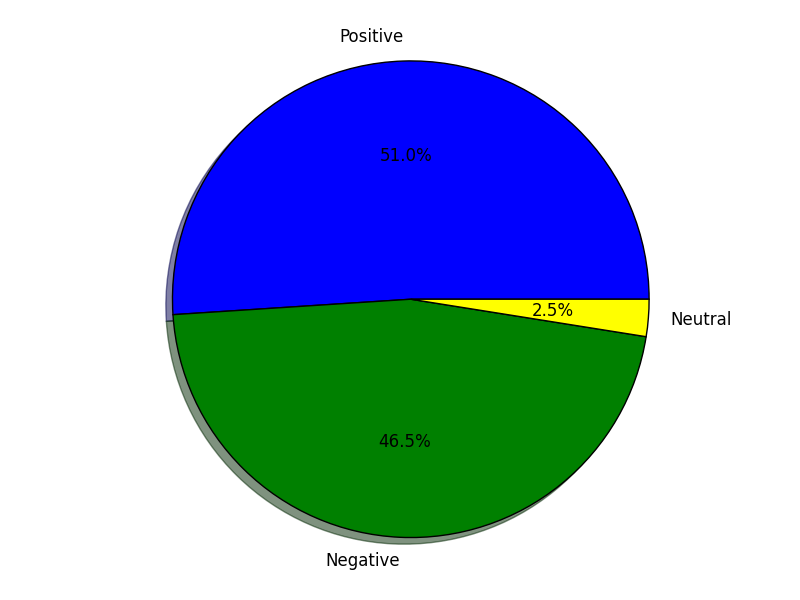
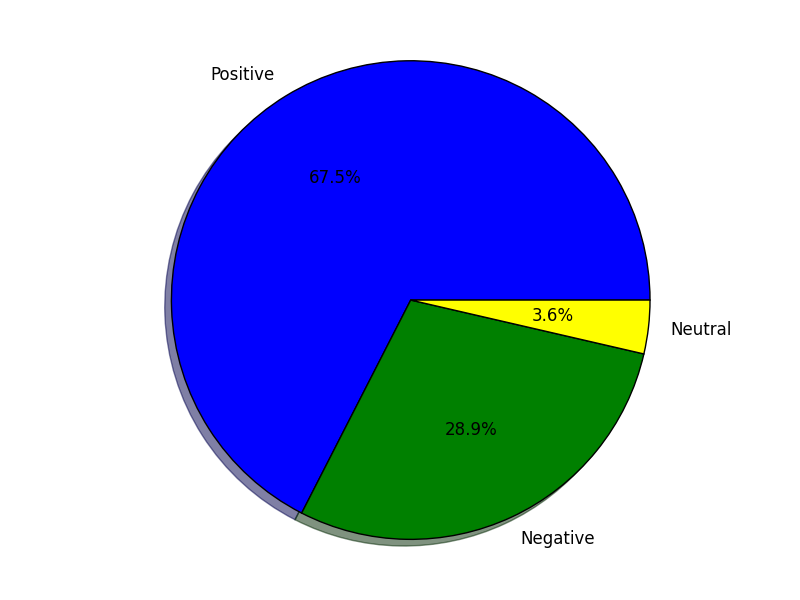
14th commit

diff --git a/TwitterSentimentAnalysis/Output.html b/TwitterSentimentAnalysis/Output.html
@@ -29,16 +29,16 @@
         <div class="col-lg-4">
         <h2>Top 10 tweets</h2>
             <ul class="list-group">
-        <li class="list-group-item">At least it ain t a 3</li>
-        <li class="list-group-item">With what app can I download youtube videos to my iphone SOMEONE PLEASE HELP IT S IMPORTANT</li>
-        <li class="list-group-item">Free Today The Island Castaway both iPhone and iPad versions</li>
-        <li class="list-group-item">RT Are you trying to read an enormous amount of book for a night New ios app Reading Fast will help you iphone</li>
-        <li class="list-group-item">porn anal milf iphone Hot and passionate threesome</li>
-        <li class="list-group-item">iPhone 5s Screen Replacement White LCD Display With Free Repair Tool Kits</li>
-        <li class="list-group-item">FoxwillTM iPhone 6 Plus 5 5 inches Waterproof Case New Version 6 6ft Underwater Waterp</li>
-        <li class="list-group-item">RT iPhone App Alien March Games 0 00 gt Free iPhone App iOS free limitedtime</li>
-        <li class="list-group-item">I ve collected 92312 Who can collect more It s a challenge gameinsight iphonegames iphone</li>
-        <li class="list-group-item">RT iPhone Twitter So Much Different From Android Twitter</li>
+        <li class="list-group-item">fashiongenius Although I ve been sent the iPhone shutdown code twice I won t send it to anyone because I m just that nice goldenr</li>
+        <li class="list-group-item">Ok so lemme get this clear fool U have an iphone 6 and u spend Gh 6 a day With empty fridge and roaming with no work</li>
+        <li class="list-group-item">we all know who s behind the iPhone restart code</li>
+        <li class="list-group-item">WE RE GIVING A BLACK IPHONE 6 RULES 1 Follow 2 Fav this 3 25 winners will be chosen</li>
+        <li class="list-group-item">sweet my iphone screen just cracked</li>
+        <li class="list-group-item">Ebay Snipe  Apple Iphone 5c 8gb Blue unlocked Smartphone Please Favorite amp Share</li>
+        <li class="list-group-item">Hot Deals gt New 3M 10FT USB Data Sync Charger Cable for iPhone 4S 4 3GS 3G 2G Red</li>
+        <li class="list-group-item">Hot Deals gt 3800mAh iPhone 6 4 7 External Battery Backup Charging Bank Power Case Cover</li>
+        <li class="list-group-item">Last Second OutBid  Apple Iphone 5c 16gb Pink verizon Smartphone Clean Esn Just Need Sim Please Fav</li>
+        <li class="list-group-item">I just flew 151m in an awesome game of JetpackJoyride on iPhone Any challengers</li>
             </ul>
         </div>
         <div class="col-lg-3">
@@ -77,7 +77,7 @@
                     <div class="col-md-6">
                     </br>
                     </br>
-                    <h4>2467</h4>
+                    <h4>333</h4>
                     </div>
                     </li>
                     <li class="list-group-item row">
@@ -87,7 +87,7 @@
                     <div class="col-md-6">
                     </br>
                     </br>
-                    <h4>35</h4>
+                    <h4>5</h4>
                     </div>
                     </li>
                     <li class="list-group-item row">
@@ -97,7 +97,7 @@
                     <div class="col-md-6">
                     </br>
                     </br>
-                    <h4>1111</h4>
+                    <h4>75</h4>
                     </div>
                     </li>
                     <li class="list-group-item row">
@@ -107,7 +107,7 @@
                     <div class="col-md-6">
                     </br>
                     </br>
-                    <h4>62</h4>
+                    <h4>13</h4>
                     </div>
                     </li>
                     <li class="list-group-item row">
@@ -117,7 +117,7 @@
                     <div class="col-md-6">
                     </br>
                     </br>
-                    <h4>962</h4>
+                    <h4>150</h4>
                     </div>
                     </li>
                     <li class="list-group-item row">
@@ -127,7 +127,7 @@
                     <div class="col-md-6">
                     </br>
                     </br>
-                    <h4>297</h4>
+                    <h4>90</h4>
                     </div>
                     </li>
                     </ul>

diff --git a/TwitterSentimentAnalysis/twitterstream.py b/TwitterSentimentAnalysis/twitterstream.py
@@ -16,8 +16,6 @@ from pytagcloud import create_tag_image, make_tags
 from pytagcloud.lang.counter import get_tag_counts
 import operator
 import obo
-import webbrowser
-import random
 from random import randrange
 from textblob.en import positive
 
@@ -46,19 +44,28 @@ class StdOutListener(StreamListener):
         db = client.tweetdb
         datajson = json.loads(data)
        
-        if datajson['text'] != None:
-            x =  datajson['text']
-            munged={}
-            munged['id'] =  datajson['id']
-            munged['created_at'] = datajson['created_at']
-            munged['text'] = ' '.join(re.sub("(@[A-Za-z0-9]+)|([^0-9A-Za-z \t])|(\w+:\/\/\S+)"," ",x).split())
-            munged['location'] = datajson['user']['location']
-            munged['time_zone'] = datajson['user']['time_zone']
+        
+        x =  datajson['text']
+            
+        munged={}
+        munged['id'] =  datajson['id']
+        munged['created_at'] = datajson['created_at']
+        
+        
+        str1 = ' '.join(re.sub("(@[A-Za-z0-9]+)|([^0-9A-Za-z \t])|(\w+:\/\/\S+)"," ",x).split())    
+        
+        regex = re.compile(r'RT', flags=re.IGNORECASE)
+        str2 = regex.sub('', str1)
+        
+        munged['text'] = str2.lstrip()
+        munged['location'] = datajson['user']['location']
+        munged['time_zone'] = datajson['user']['time_zone']
        
        
         json_data = json.dumps(munged)
         db.iphonetweets.insert_one(json.loads(json_data))
-        print json_data
+        
+        print munged['text']
        
         with open('tweets.txt', 'a') as tf:
             tf.write(json_data)
@@ -88,8 +95,6 @@ if __name__ == '__main__':
     background_color = (255, 255, 255)
     max_word_size = 80
     max_words = 180
-    width = 1280
-    height = 800
     my_text=''
     f = open('stopwords.txt', 'rb')
     stop_words = [line.strip() for line in f]
@@ -110,6 +115,7 @@ if __name__ == '__main__':
     db = client.tweetdb
     for iphonetweet in db.iphonetweets.find():
         tweet = TextBlob(iphonetweet["text"])
+        
         sum1 = sum1 + tweet.word_counts['screen']
         if tweet.sentiment.subjectivity != 0.0:
             tweets.append(iphonetweet["text"])
@@ -157,7 +163,7 @@ if __name__ == '__main__':
     max_count = max(final, key=operator.itemgetter(1))[1]
     final = [(name, count / float(max_count))for name, count in final]
     tags = make_tags(final, maxsize=max_word_size)
-    create_tag_image(tags, 'cloud_large.png', size=(width, height), layout=layout, fontname='Lobster', background = background_color)
+    create_tag_image(tags, 'cloud_large.png', size=(1280, 800), layout=layout, fontname='Lobster', background = background_color)
     
     mean = statistics.mean(alist)
     mode = statistics.mode(alist)
@@ -297,18 +303,18 @@ if __name__ == '__main__':
     <div class="container-fluid">
         <div class="row">
         <div class="col-lg-4">
-        <h2>Top 10 tweets</h2>
+        <h2>Latest tweets</h2>
             <ul class="list-group">
-        <li class="list-group-item">""" + tweets[0]+"""</li>
-        <li class="list-group-item">""" + tweets[1]+"""</li>
-        <li class="list-group-item">""" + tweets[2]+"""</li>
-        <li class="list-group-item">""" + tweets[3]+"""</li>
-        <li class="list-group-item">""" + tweets[4]+"""</li>
-        <li class="list-group-item">""" + tweets[5]+"""</li>
-        <li class="list-group-item">""" + tweets[6]+"""</li>
-        <li class="list-group-item">""" + tweets[7]+"""</li>
-        <li class="list-group-item">""" + tweets[8]+"""</li>
-        <li class="list-group-item">""" + tweets[9]+"""</li>
+        <li class="list-group-item">""" + tweets[len(tweets)-1]+"""</li>
+        <li class="list-group-item">""" + tweets[len(tweets)-2]+"""</li>
+        <li class="list-group-item">""" + tweets[len(tweets)-3]+"""</li>
+        <li class="list-group-item">""" + tweets[len(tweets)-4]+"""</li>
+        <li class="list-group-item">""" + tweets[len(tweets)-5]+"""</li>
+        <li class="list-group-item">""" + tweets[len(tweets)-6]+"""</li>
+        <li class="list-group-item">""" + tweets[len(tweets)-7]+"""</li>
+        <li class="list-group-item">""" + tweets[len(tweets)-8]+"""</li>
+        <li class="list-group-item">""" + tweets[len(tweets)-9]+"""</li>
+        <li class="list-group-item">""" + tweets[len(tweets)-10]+"""</li>
             </ul>
         </div>
         <div class="col-lg-3">
